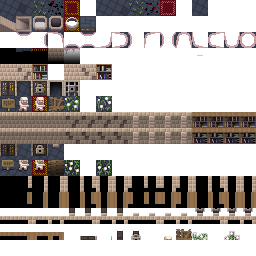
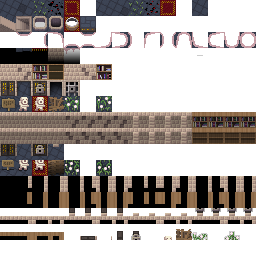
Fixes & Knowledge & Booktitles

diff --git a/core/src/main/java/com/lovecraftpixel/lovecraftpixeldungeon/tiles/DungeonTileSheet.java b/core/src/main/java/com/lovecraftpixel/lovecraftpixeldungeon/tiles/DungeonTileSheet.java
@@ -165,10 +165,10 @@ public class DungeonTileSheet {
 	public static final int FLAT_WALL           = FLAT_WALLS+0;
 	public static final int FLAT_WALL_DECO      = FLAT_WALLS+1;
 	public static final int FLAT_BOOKSHELF      = FLAT_WALLS+2;
+	public static final int FLAT_EMPTY_BOOKSHELF= FLAT_WALLS+3;
 
 	public static final int FLAT_WALL_ALT       = FLAT_WALLS+4;
 	public static final int FLAT_WALL_DECO_ALT  = FLAT_WALLS+5;
-	public static final int FLAT_BOOKSHELF_ALT  = FLAT_WALLS+6;
 
 	private static final int FLAT_DOORS         =                           xy(1, 6);   //16 slots
 	public static final int FLAT_DOOR           = FLAT_DOORS+0;
@@ -198,17 +198,17 @@ public class DungeonTileSheet {
 	//wall that appears behind a top/bottom doorway
 	public static final int RAISED_WALL_DOOR            = RAISED_WALLS+8;
 	public static final int RAISED_WALL_BOOKSHELF       = RAISED_WALLS+12;
+	public static final int RAISED_WALL_EMPTY_BOOKSHELF = RAISED_WALLS+28;
 
 	public static final int RAISED_WALL_ALT             = RAISED_WALLS+16;
 	public static final int RAISED_WALL_DECO_ALT        = RAISED_WALLS+20;
-	public static final int RAISED_WALL_BOOKSHELF_ALT   = RAISED_WALLS+28;
 
 	//we use an array instead of a collection because the small element count
 	// makes array traversal much faster than something like HashSet.contains.
 
 	//These tiles count as wall for the purposes of wall stitching
 	private static int[] wallStitcheable = new int[]{
-			Terrain.WALL, Terrain.WALL_DECO, Terrain.SECRET_DOOR,
+			Terrain.WALL, Terrain.WALL_DECO, Terrain.SECRET_DOOR, Terrain.EMPTY_BOOKSHELF,
 			Terrain.LOCKED_EXIT, Terrain.UNLOCKED_EXIT, Terrain.BOOKSHELF, NULL_TILE
 	};
 
@@ -225,6 +225,7 @@ public class DungeonTileSheet {
 		else if (tile == Terrain.WALL || tile == Terrain.SECRET_DOOR)   result = RAISED_WALL;
 		else if (tile == Terrain.WALL_DECO)                             result = RAISED_WALL_DECO;
 		else if (tile == Terrain.BOOKSHELF)                             result = RAISED_WALL_BOOKSHELF;
+		else if (tile == Terrain.EMPTY_BOOKSHELF)                       result = RAISED_WALL_EMPTY_BOOKSHELF;
 		else                                                            return -1;
 
 		result = getVisualWithAlts(result, pos);
@@ -285,6 +286,7 @@ public class DungeonTileSheet {
 		int result;
 
 		if (tile == Terrain.BOOKSHELF || below == Terrain.BOOKSHELF)  result = WALL_INTERNAL_WOODEN;
+		else if (tile == Terrain.EMPTY_BOOKSHELF || below == Terrain.EMPTY_BOOKSHELF)  result = WALL_INTERNAL_WOODEN;
 		else                            result = WALL_INTERNAL;
 
 		if (!wallStitcheable(right))        result += 1;
@@ -308,6 +310,7 @@ public class DungeonTileSheet {
 		else if (tile == Terrain.OPEN_DOOR)                         visual = DOOR_SIDEWAYS_OVERHANG_OPEN;
 		else if (tile == Terrain.LOCKED_DOOR)                       visual = DOOR_SIDEWAYS_OVERHANG_LOCKED;
 		else if (below == Terrain.BOOKSHELF)                        visual = WALL_OVERHANG_WOODEN;
+		else if (below == Terrain.EMPTY_BOOKSHELF)                  visual = WALL_OVERHANG_WOODEN;
 		else                                                        visual = WALL_OVERHANG;
 
 		if (!wallStitcheable(rightBelow))  visual += 1;
@@ -365,6 +368,7 @@ public class DungeonTileSheet {
 		directFlatVisuals.put(Terrain.LOCKED_DOOR,      FLAT_DOOR_LOCKED);
 		directFlatVisuals.put(Terrain.WALL_DECO,        FLAT_WALL_DECO);
 		directFlatVisuals.put(Terrain.BOOKSHELF,        FLAT_BOOKSHELF);
+		directFlatVisuals.put(Terrain.EMPTY_BOOKSHELF,  FLAT_EMPTY_BOOKSHELF);
 		directFlatVisuals.put(Terrain.SIGN,             FLAT_SIGN);
 		directFlatVisuals.put(Terrain.STATUE,           FLAT_STATUE);
 		directFlatVisuals.put(Terrain.STATUE_SP,        FLAT_STATUE_SP);
@@ -400,12 +404,10 @@ public class DungeonTileSheet {
 		commonAltVisuals.put(FLOOR_SP,              FLOOR_SP_ALT);
 		commonAltVisuals.put(FLOOR_DECO,            FLOOR_DECO_ALT);
 
-		commonAltVisuals.put(FLAT_BOOKSHELF,        FLAT_BOOKSHELF_ALT);
 		commonAltVisuals.put(FLAT_HIGH_GRASS,       FLAT_HIGH_GRASS_ALT);
 
 		commonAltVisuals.put(RAISED_WALL,           RAISED_WALL_ALT);
 		commonAltVisuals.put(RAISED_WALL_DECO,      RAISED_WALL_DECO_ALT);
-		commonAltVisuals.put(RAISED_WALL_BOOKSHELF, RAISED_WALL_BOOKSHELF_ALT);
 
 		commonAltVisuals.put(RAISED_HIGH_GRASS,     RAISED_HIGH_GRASS_ALT);
 		commonAltVisuals.put(HIGH_GRASS_OVERHANG,   HIGH_GRASS_OVERHANG_ALT);

diff --git a/core/src/main/java/com/lovecraftpixel/lovecraftpixeldungeon/levels/Terrain.java b/core/src/main/java/com/lovecraftpixel/lovecraftpixeldungeon/levels/Terrain.java
@@ -58,6 +58,8 @@ public class Terrain {
 	public static final int ALCHEMY			= 28;
 
 	public static final int WATER		    = 29;
+
+	public static final int EMPTY_BOOKSHELF = 30;
 	
 	public static final int PASSABLE		= 0x01;
 	public static final int LOS_BLOCKING	= 0x02;
@@ -70,38 +72,39 @@ public class Terrain {
 	
 	public static final int[] flags = new int[256];
 	static {
-		flags[CHASM]		= AVOID	| PIT;
-		flags[EMPTY]		= PASSABLE;
-		flags[GRASS]		= PASSABLE | FLAMABLE;
-		flags[EMPTY_WELL]	= PASSABLE;
-		flags[WATER]		= PASSABLE | LIQUID;
-		flags[WALL]			= LOS_BLOCKING | SOLID;
-		flags[DOOR]			= PASSABLE | LOS_BLOCKING | FLAMABLE | SOLID;
-		flags[OPEN_DOOR]	= PASSABLE | FLAMABLE;
-		flags[ENTRANCE]		= PASSABLE/* | SOLID*/;
-		flags[EXIT]			= PASSABLE;
-		flags[EMBERS]		= PASSABLE;
-		flags[LOCKED_DOOR]	= LOS_BLOCKING | SOLID;
-		flags[PEDESTAL]		= PASSABLE;
-		flags[WALL_DECO]	= flags[WALL];
-		flags[BARRICADE]	= FLAMABLE | SOLID | LOS_BLOCKING;
-		flags[EMPTY_SP]		= flags[EMPTY];
-		flags[HIGH_GRASS]	= PASSABLE | LOS_BLOCKING | FLAMABLE;
+		flags[CHASM]			= AVOID	| PIT;
+		flags[EMPTY]			= PASSABLE;
+		flags[GRASS]			= PASSABLE | FLAMABLE;
+		flags[EMPTY_WELL]		= PASSABLE;
+		flags[WATER]			= PASSABLE | LIQUID;
+		flags[WALL]				= LOS_BLOCKING | SOLID;
+		flags[DOOR]				= PASSABLE | LOS_BLOCKING | FLAMABLE | SOLID;
+		flags[OPEN_DOOR]		= PASSABLE | FLAMABLE;
+		flags[ENTRANCE]			= PASSABLE/* | SOLID*/;
+		flags[EXIT]				= PASSABLE;
+		flags[EMBERS]			= PASSABLE;
+		flags[LOCKED_DOOR]		= LOS_BLOCKING | SOLID;
+		flags[PEDESTAL]			= PASSABLE;
+		flags[WALL_DECO]		= flags[WALL];
+		flags[BARRICADE]		= FLAMABLE | SOLID | LOS_BLOCKING;
+		flags[EMPTY_SP]			= flags[EMPTY];
+		flags[HIGH_GRASS]		= PASSABLE | LOS_BLOCKING | FLAMABLE;
 
-		flags[SECRET_DOOR]  = flags[WALL]  | SECRET;
-		flags[SECRET_TRAP]  = flags[EMPTY] | SECRET;
-		flags[TRAP]         = AVOID;
-		flags[INACTIVE_TRAP]= flags[EMPTY];
+		flags[SECRET_DOOR]  	= flags[WALL]  | SECRET;
+		flags[SECRET_TRAP]  	= flags[EMPTY] | SECRET;
+		flags[TRAP]         	= AVOID;
+		flags[INACTIVE_TRAP]	= flags[EMPTY];
 
-		flags[EMPTY_DECO]	= flags[EMPTY];
-		flags[LOCKED_EXIT]	= SOLID;
-		flags[UNLOCKED_EXIT]= PASSABLE;
-		flags[SIGN]			= PASSABLE | FLAMABLE;
-		flags[WELL]			= AVOID;
-		flags[STATUE]		= SOLID;
-		flags[STATUE_SP]	= flags[STATUE];
-		flags[BOOKSHELF]	= flags[BARRICADE];
-		flags[ALCHEMY]		= SOLID;
+		flags[EMPTY_DECO]		= flags[EMPTY];
+		flags[LOCKED_EXIT]		= SOLID;
+		flags[UNLOCKED_EXIT]	= PASSABLE;
+		flags[SIGN]				= PASSABLE | FLAMABLE;
+		flags[WELL]				= AVOID;
+		flags[STATUE]			= SOLID;
+		flags[STATUE_SP]		= flags[STATUE];
+		flags[BOOKSHELF]		= flags[BARRICADE];
+		flags[ALCHEMY]			= SOLID;
+		flags[EMPTY_BOOKSHELF]	= flags[BARRICADE];
 
 	};
 

diff --git a/core/src/main/java/com/lovecraftpixel/lovecraftpixeldungeon/utils/BookTitles.java b/core/src/main/java/com/lovecraftpixel/lovecraftpixeldungeon/utils/BookTitles.java
@@ -1,0 +1,73 @@
+package com.lovecraftpixel.lovecraftpixeldungeon.utils;
+
+import android.content.Context;
+
+import com.lovecraftpixel.lovecraftpixeldungeon.Assets;
+import com.lovecraftpixel.lovecraftpixeldungeon.messages.Messages;
+import com.watabou.noosa.Game;
+import com.watabou.utils.Random;
+
+import java.io.BufferedReader;
+import java.io.IOException;
+import java.io.InputStream;
+import java.io.InputStreamReader;
+import java.util.ArrayList;
+
+/**
+ * This class is released under GNU general public license
+ */
+
+public class BookTitles {
+    ArrayList<String> texts = new ArrayList<String>();
+
+    private String fileName;
+
+
+    public BookTitles(String filename, Context context) throws IOException{
+        fileName = filename;
+        refresh(context);
+    }
+
+    public void refresh(Context context) throws IOException{
+
+        InputStream fIn;
+        InputStreamReader isr;
+        BufferedReader bufRead;
+        String line;
+
+        fIn = context.getAssets().open(fileName, Context.MODE_WORLD_READABLE);
+        isr = new InputStreamReader(fIn);
+        bufRead = new BufferedReader(isr);
+        line="";
+
+        while(line != null){
+            line = bufRead.readLine();
+            if(line != null && !line.equals("")){
+                if(line.charAt(0) == '-'){
+                    texts.add(line.substring(1));
+                }
+            }
+        }
+        bufRead.close();
+        isr.close();
+        fIn.close();
+    }
+
+    public String compose(){
+        String text = texts.get(Random.Int(texts.size()-1));
+        return Messages.get(this, "foundbook")+" "+text;
+    }
+
+    public static String getRandomTitle(){
+        String name;
+        String pathfile;
+        pathfile = Assets.BOOKTITLES;
+        try {
+            name = new BookTitles(pathfile, Game.instance).compose();
+        } catch (IOException e) {
+            e.printStackTrace();
+            name = "Error";
+        }
+        return name;
+    }
+}

diff --git a/core/src/main/java/com/lovecraftpixel/lovecraftpixeldungeon/actors/hero/Hero.java b/core/src/main/java/com/lovecraftpixel/lovecraftpixeldungeon/actors/hero/Hero.java
@@ -115,6 +115,7 @@ import com.lovecraftpixel.lovecraftpixeldungeon.ui.AttackIndicator;
 import com.lovecraftpixel.lovecraftpixeldungeon.ui.BuffIndicator;
 import com.lovecraftpixel.lovecraftpixeldungeon.ui.QuickSlotButton;
 import com.lovecraftpixel.lovecraftpixeldungeon.utils.BArray;
+import com.lovecraftpixel.lovecraftpixeldungeon.utils.BookTitles;
 import com.lovecraftpixel.lovecraftpixeldungeon.utils.GLog;
 import com.lovecraftpixel.lovecraftpixeldungeon.windows.WndAlchemy;
 import com.lovecraftpixel.lovecraftpixeldungeon.windows.WndResurrect;
@@ -1204,6 +1205,13 @@ public class Hero extends Char {
 			
 			curAction = new HeroAction.Alchemy( cell );
 			
+		} else if(Dungeon.level.map[cell] == Terrain.BOOKSHELF && cell != pos){
+			this.gainKnowl(1);
+
+			GLog.b(BookTitles.getRandomTitle());
+
+			Level.set(cell, Terrain.EMPTY_BOOKSHELF);
+			GameScene.updateMap( cell );
 		} else if (fieldOfView[cell] && (ch = Actor.findChar( cell )) instanceof Mob) {
 
 			if (ch instanceof NPC) {
@@ -1326,7 +1334,7 @@ public class Hero extends Char {
 	}
 
 	public int maxKnowl() {
-		return 3 + lvl * 3;
+		return 5 + lvl * 5;
 	}
 	
 	public boolean isStarving() {

diff --git a/core/src/main/java/com/lovecraftpixel/lovecraftpixeldungeon/utils/NameGenerator.java b/core/src/main/java/com/lovecraftpixel/lovecraftpixeldungeon/utils/NameGenerator.java
@@ -1,26 +1,3 @@
-/*
- * Pixel Dungeon
- * Copyright (C) 2012-2015 Oleg Dolya
- *
- * Shattered Pixel Dungeon
- * Copyright (C) 2014-2016 Evan Debenham
- *
- * Lovecraft Pixel Dungeon
- * Copyright (C) 2016-2017 Leon Horn
- *
- * This program is free software: you can redistribute it and/or modify
- * it under the terms of the GNU General Public License as published by
- * the Free Software Foundation, either version 3 of the License, or
- * (at your option) any later version.
- *
- * This Program is distributed in the hope that it will be useful,
- * but WITHOUT ANY WARRANTY; without eben the implied warranty of
- * GNU General Public License for more details.
- *
- * You should have have received a copy of the GNU General Public License
- * along with this program. If not, see <http://www.gnu.org/licenses>
- */
-
 package com.lovecraftpixel.lovecraftpixeldungeon.utils;
 
 import android.content.Context;

diff --git a/core/src/main/java/com/lovecraftpixel/lovecraftpixeldungeon/utils/GLog.java b/core/src/main/java/com/lovecraftpixel/lovecraftpixeldungeon/utils/GLog.java
@@ -24,6 +24,7 @@
 package com.lovecraftpixel.lovecraftpixeldungeon.utils;
 
 import android.util.Log;
+
 import com.lovecraftpixel.lovecraftpixeldungeon.messages.Messages;
 import com.watabou.utils.Signal;
 
@@ -35,6 +36,7 @@ public class GLog {
 	public static final String NEGATIVE		= "-- ";
 	public static final String WARNING		= "** ";
 	public static final String HIGHLIGHT	= "@@ ";
+	public static final String BOOK			= "†† ";
 	
 	public static Signal<String> update = new Signal<String>();
 	
@@ -62,5 +64,9 @@ public class GLog {
 	
 	public static void h( String text, Object... args ) {
 		i( HIGHLIGHT + text, args );
+	}
+
+	public static void b( String text, Object... args ) {
+		i( BOOK + text, args );
 	}
 }

diff --git a/core/src/main/java/com/lovecraftpixel/lovecraftpixeldungeon/levels/Level.java b/core/src/main/java/com/lovecraftpixel/lovecraftpixeldungeon/levels/Level.java
@@ -971,6 +971,8 @@ public abstract class Level implements Bundlable {
 	public String tileName( int tile ) {
 		
 		switch (tile) {
+			case Terrain.EMPTY_BOOKSHELF:
+				return Messages.get(Level.class, "empty_bookshelf_name");
 			case Terrain.CHASM:
 				return Messages.get(Level.class, "chasm_name");
 			case Terrain.EMPTY:
@@ -1031,6 +1033,8 @@ public abstract class Level implements Bundlable {
 	public String tileDesc( int tile ) {
 		
 		switch (tile) {
+			case Terrain.EMPTY_BOOKSHELF:
+				return Messages.get(Level.class, "empty_bookshelf_desc");
 			case Terrain.CHASM:
 				return Messages.get(Level.class, "chasm_desc");
 			case Terrain.WATER:

diff --git a/core/src/main/java/com/lovecraftpixel/lovecraftpixeldungeon/tiles/DungeonTerrainTilemap.java b/core/src/main/java/com/lovecraftpixel/lovecraftpixeldungeon/tiles/DungeonTerrainTilemap.java
@@ -61,7 +61,7 @@ public class DungeonTerrainTilemap extends DungeonTilemap {
 			if ((DungeonTileSheet.doorTile(tile))) {
 				return DungeonTileSheet.getRaisedDoorTile(tile, map[pos - mapWidth]);
 			} else if (tile == Terrain.WALL || tile == Terrain.WALL_DECO
-					|| tile == Terrain.SECRET_DOOR || tile == Terrain.BOOKSHELF){
+					|| tile == Terrain.SECRET_DOOR || tile == Terrain.BOOKSHELF || tile == Terrain.EMPTY_BOOKSHELF){
 				return DungeonTileSheet.getRaisedWallTile(
 						tile,
 						pos,

diff --git a/core/src/main/java/com/lovecraftpixel/lovecraftpixeldungeon/Assets.java b/core/src/main/java/com/lovecraftpixel/lovecraftpixeldungeon/Assets.java
@@ -30,6 +30,8 @@ public class Assets {
 	public static final String GOBLIN_NAMES		= "names/goblinnamegenerator.txt";
 	public static final String ROMAN_NAMES		= "names/romannamegenerator.txt";
 
+	public static final String BOOKTITLES		= "excerpts/booktitles.txt";
+
 	public static final String ARCS_BG		= "ui/arcs1.png";
 	public static final String ARCS_FG		= "ui/arcs2.png";
 	public static final String DASHBOARD	= "ui/dashboard.png";

diff --git a/core/src/main/java/com/lovecraftpixel/lovecraftpixeldungeon/ui/GameLog.java b/core/src/main/java/com/lovecraftpixel/lovecraftpixeldungeon/ui/GameLog.java
@@ -86,6 +86,10 @@ public class GameLog extends Component implements Signal.Listener<String> {
 		if (text.startsWith( GLog.HIGHLIGHT )) {
 			text = text.substring( GLog.HIGHLIGHT.length() );
 			color = CharSprite.NEUTRAL;
+		} else
+		if (text.startsWith( GLog.BOOK )) {
+			text = text.substring( GLog.BOOK.length() );
+			color = CharSprite.BOOK;
 		}
 
 		if (lastEntry != null && color == lastColor && lastEntry.nLines < MAX_LINES) {

diff --git a/core/src/main/java/com/lovecraftpixel/lovecraftpixeldungeon/sprites/CharSprite.java b/core/src/main/java/com/lovecraftpixel/lovecraftpixeldungeon/sprites/CharSprite.java
@@ -66,6 +66,7 @@ public class CharSprite extends MovieClip implements Tweener.Listener, MovieClip
 	public static final int WARNING		= 0xFF8800;
 	public static final int NEUTRAL		= 0xFFFF00;
 	public static final int KNOWLEDGE	= 0x3439FF;
+	public static final int BOOK		= 0x98DB98;
 	
 	private static final float MOVE_INTERVAL	= 0.1f;
 	private static final float FLASH_INTERVAL	= 0.05f;
